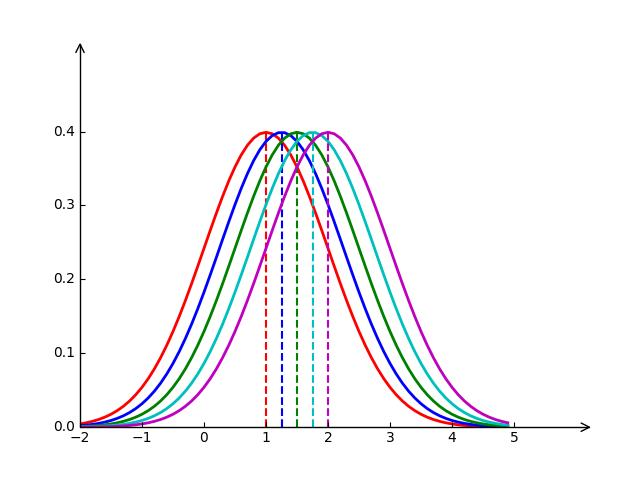
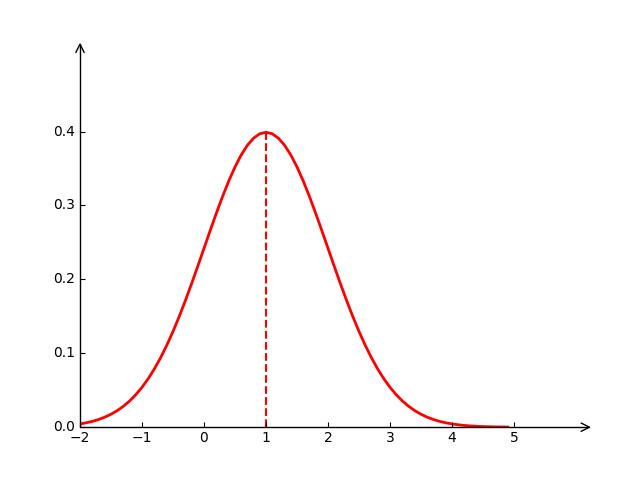
add

Changed region(s): [[0.125, 0.25, 0.8125, 0.9062]]

diff --git a/he.py b/he.py
@@ -30,15 +30,15 @@ y2 = np.multiply(np.power(np.sqrt(2 * np.pi) * sigma2, -1), np.exp(-np.power(x -
 plt.rcParams["font.family"] = ["sans-serif"]
 plt.rcParams["font.sans-serif"] = ['SimHei']
 
-plt.plot([0.5,0.5],[0,cx(0.5)])
-plt.plot([2.5,2.5],[0,cx(2.5)])
-plt.plot([0,0],[0,cx(0.)])
-plt.plot([3,3],[0,cx(3.)])
+plt.plot([0.5,0.5],[0,cx(0.5,u2,sigma2)])
+plt.plot([2.5,2.5],[0,cx(2.5,u2,sigma2)])
+plt.plot([0,0],[0,cx(0.,u2,sigma2)])
+plt.plot([3,3],[0,cx(3.,u2,sigma2)])
          
 for i in range(0,50):
-    plt.plot([i/100,i/100],[0,cx(i/100)],color="b")
+    plt.plot([i/100,i/100],[0,cx(i/100,u2,sigma2)],color="b")
 for i in range(250,300):
-    plt.plot([i/100,i/100],[0,cx(i/100)],color="b")
+    plt.plot([i/100,i/100],[0,cx(i/100,u2,sigma2)],color="b")
 # 加标题
 # plt.ylabel('行业')
 # plt.xlabel('倍率')
@@ -49,24 +49,39 @@ plt.yticks(np.arange(0, 0.5, 0.1))
 plt.plot(x, y2, 'r-', linewidth=2)
 plt.savefig("1.jpg")
 '''
+
 # 图2
-# u2 = 2  
-# sigma2 = 1  
-# x = np.arange(-1, 5, 0.1)
-# y2 = np.multiply(np.power(np.sqrt(2 * np.pi) * sigma2, -1), np.exp(-np.power(x - u2, 2) / 2 * sigma2 ** 2))
+u2 = 1 
+sigma2 = 1  
+x = np.arange(-2, 5, 0.1)
+y2 = np.multiply(np.power(np.sqrt(2 * np.pi) * sigma2, -1), np.exp(-np.power(x - u2, 2) / 2 * sigma2 ** 2))
+plt.plot([1,1],[0,cx(1,u2,sigma2)],c='b',linestyle='--')
+plt.xlim((-2,6))
+plt.ylim((0,0.5))
+plt.xticks(np.arange(-2, 6, 1))
+plt.yticks(np.arange(0, 0.5, 0.1))
+# plt.ylabel('服务/行业')
+# plt.xlabel('倍率')
+plt.plot(x, y2, 'r-', linewidth=2)
+plt.savefig("2.jpg")
 
-# plt.plot([2,2],[0,cx(2)],c='b',linestyle='--')
-# plt.xlim((-1,5))
-# plt.ylim((0,0.5))
-# plt.xticks(np.arange(-1, 6, 1))
-# plt.yticks(np.arange(0, 0.5, 0.1))
+u2 = 2  
+sigma2 = 1  
+x = np.arange(-2, 5, 0.1)
+y2 = np.multiply(np.power(np.sqrt(2 * np.pi) * sigma2, -1), np.exp(-np.power(x - u2, 2) / 2 * sigma2 ** 2))
 
-# # plt.ylabel('服务/行业')
-# # plt.xlabel('倍率')
-# plt.plot(x, y2, 'r-', linewidth=2)
-# plt.savefig("3.jpg")
+plt.plot([2,2],[0,cx(2,u2,sigma2)],c='b',linestyle='--')
+plt.xlim((-2,6))
+plt.ylim((0,0.5))
+plt.xticks(np.arange(-2, 6, 1))
+plt.yticks(np.arange(0, 0.5, 0.1))
+# plt.ylabel('服务/行业')
+# plt.xlabel('倍率')
+plt.plot(x, y2, 'r-', linewidth=2)
+plt.savefig("3.jpg")
 
 # 图3
+'''
 u1 = 1  
 sigma1 = 1  
 x1 = np.arange(-2, 5, 0.1)
@@ -131,3 +146,4 @@ plt.xticks(np.arange(-2, 6, 1))
 plt.yticks(np.arange(0, 0.5, 0.1))
 plt.plot(x1, y1, c='m', linewidth=2)
 plt.savefig("8.jpg")
+'''
